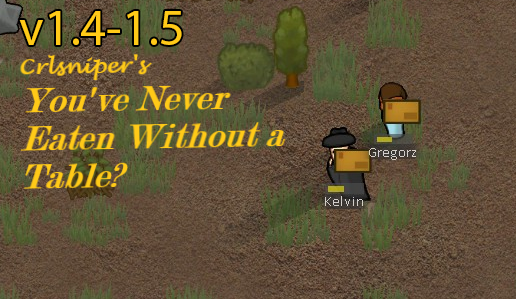
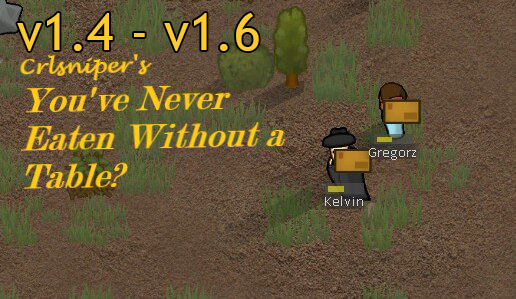
update to 1.6

diff --git a/README.md b/README.md
@@ -1,5 +1,5 @@
 # AteWithoutTable
-This is a fork of You've Never Eaten Without a Table updated to 1.4 and 1.5. I am not the original author of this mod. 
+This is a fork of You've Never Eaten Without a Table updated to 1.4-1.6. I am not the original author of this mod. 
 
 This fork moves the code to a patch instead of a replacement. This allows it to function more easily with the base game and other mods without weird things happening. 
 
